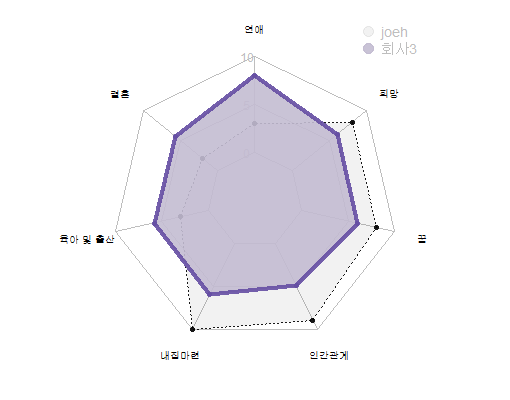
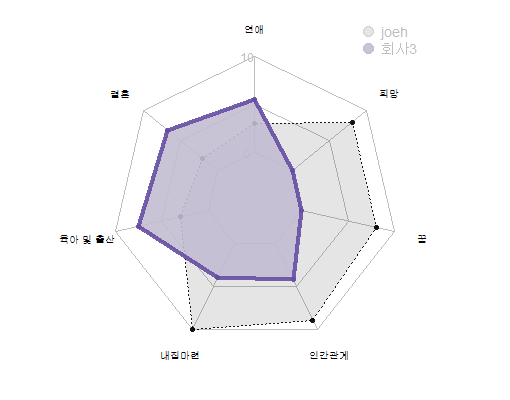
commit

Changed region(s): [[0.3529, 0.18, 0.7059, 0.75], [0.2647, 0.3, 0.3824, 0.63]]

diff --git a/sevenget/src/main/java/com/sevenget/Rcode/Evaluation2.java b/sevenget/src/main/java/com/sevenget/Rcode/Evaluation2.java
@@ -4,6 +4,7 @@ import model.company.CompanyBasicDAO;
 import model.company.CompanyBasicDTO;
 import model.companySco.CompanyRawScoDaoImpl;
 import model.companySco.CompanyRawScoDto;
+import model.companySco.CompanyScoDao;
 import model.companySco.CompanyScoDaoImpl;
 import model.companySco.CompanyScoDto;
 
@@ -21,13 +22,25 @@ public class Evaluation2 {
 	// 불러온 점수를 4점 미만, 4이상 7미만, 7이상으로 범주화 (F,N,T) 하는 메서드-insert or update
 	// 범주화된 점수는 companyBasicInfo 테이블에 입력!
 	public CompanyBasicDTO Categorization(int cid) {
+		CompanyScoDaoImpl CSDao = new CompanyScoDaoImpl();
 		CompanyScoDto CSDto = new CompanyScoDto();
 		Evaluation2 eval2 = new Evaluation2();
+		Evaluation eval = new Evaluation();
 		CompanyBasicDTO CBDto = new CompanyBasicDTO();
-
+		
+		CSDto = eval.FinalSco(cid, "joeh");
+		
 		//CSDto = eval2.selectComSco(cid);
 		CSDto.setCid(cid);
-
+		
+		System.out.println("지금 여기는 Evaluation2");
+		System.out.print(CSDto.getDateSco());
+		System.out.print(CSDto.getMarrySco());
+		System.out.print(CSDto.getBabySco());
+		System.out.print(CSDto.getHouseSco());
+		System.out.print(CSDto.getRelationSco());
+		System.out.print(CSDto.getDreamSco());
+		System.out.println(CSDto.getHopeSco());
 		// TF조건을 if로 걸어주고 나머지를 N으로 하는 걸로 바꿔주기!
 		if (CSDto.getDateSco() >= 7) {
 			CBDto.setDateGet("T");
@@ -107,9 +120,9 @@ public class Evaluation2 {
 		E2.Categorization(1);
 
 		//dto = pp.selectbyCid(1);
-		/*for(int i =1; i<26; i++){
+		for(int i =1; i<26; i++){
 			E2.Categorization(i);
-		}*/
+		}
 	}
 
 }

diff --git a/sevenget/src/main/java/model/companySco/CompanyRawScoDaoImpl.java b/sevenget/src/main/java/model/companySco/CompanyRawScoDaoImpl.java
@@ -87,19 +87,19 @@ public class CompanyRawScoDaoImpl implements CompanyScoDao {
 		dto.setCompKindergartenEPr(0);
 		dto.setEduSupportEPr(1);
 		dto.setLoanSupportEPr(1);
-		dto.setDormiHousingSupportEPr(1);
-		dto.setOpClubEPr(1);
-		dto.setSupportClubEPr(1);
-		dto.setClubMemRateEPr(80);
-		dto.setSelfDevSupportEPr(1);
+		dto.setDormiHousingSupportEPr(0);
+		dto.setOpClubEPr(0);
+		dto.setSupportClubEPr(0);
+		dto.setClubMemRateEPr(60);
+		dto.setSelfDevSupportEPr(0);
 		dto.setSeminarInvEPr(0);
-		dto.setHorizStrucEPr(1);
+		dto.setHorizStrucEPr(0);
 		dto.setVarWorkExpEPr(0);
-		dto.setTelAvailEPr(1);
+		dto.setTelAvailEPr(0);
 		dto.setSalIncreRateEPr(0);
-		dto.setRetireRateEPr(1);
+		dto.setRetireRateEPr(0);
 		dto.setBusiGrowthEPr(0);
-		dto.setInduGrowthEPr(1);
+		dto.setInduGrowthEPr(0);
 		dto.setGovSupportEPr(0);
 			
 		mybatis.update("CompanyRawScoDAO.updateRawScore", dto);
@@ -112,12 +112,12 @@ public class CompanyRawScoDaoImpl implements CompanyScoDao {
 		CompanyRawScoDaoImpl pp = new CompanyRawScoDaoImpl();
 		CompanyScoDto dto = new CompanyScoDto();
 		try{
-				for(int i=2; i<20;i++){
+				for(int i=3; i<26;i++){
 				pp.selectbyCid(i);
 				pp.insertCompanyRawScore(i);
 				}
 			}catch (Exception e) {
-				for(int i=2; i<20;i++){
+				for(int i=3; i<26;i++){
 				pp.updateCompanyRawScore(i);
 				}
 			}

diff --git a/sevenget/src/main/java/model/company/CompanyBasicDAO.java b/sevenget/src/main/java/model/company/CompanyBasicDAO.java
@@ -34,7 +34,6 @@ public class CompanyBasicDAO {
 		Evaluation2 eval2 = new Evaluation2();
 		CompanyScoDto CSDto = new CompanyScoDto();
 		CompanyBasicDTO CBDto = new CompanyBasicDTO();
-		CSDto = eval2.selectComSco(cid);
 		/*CSDto.getDateSco();
 		CSDto.getMarrySco();
 		CSDto.getBabySco();
@@ -46,7 +45,7 @@ public class CompanyBasicDAO {
 		
 		CBDto = (CompanyBasicDTO) CBDao.selectCompany(cid).get(0);
 		
-		System.out.println("wawawa"+CBDto.getCid());
+		System.out.println(eval2.Categorization(cid).getDateGet());
 		CBDto.setDateGet(eval2.Categorization(cid).getDateGet());
 		CBDto.setMarryGet(eval2.Categorization(cid).getMarryGet());
 		CBDto.setBabyGet(eval2.Categorization(cid).getBabyGet());
@@ -66,7 +65,7 @@ public class CompanyBasicDAO {
 		}
 			
 		//이건 잘 작동함.
-		List<CompanyBasicDTO> list = dao.selectAllCompanyBasic();
+		/*List<CompanyBasicDTO> list = dao.selectAllCompanyBasic();
 			try{
 				for(int i = 0; i<25; i++){
 					System.out.println(list.get(i).getCid());
@@ -80,6 +79,6 @@ public class CompanyBasicDAO {
 				}
 			}catch (Exception e) {
 				// TODO: handle exception
-			}
+			}*/
 	}
 }

diff --git a/sevenget/src/main/java/com/sevenget/Rcode/MakingPlot.java b/sevenget/src/main/java/com/sevenget/Rcode/MakingPlot.java
@@ -40,7 +40,7 @@ public class MakingPlot {
 		
 		// plot 그래픽 설정 및 파일 저장
 		connection.eval("colors_border=c(rgb(0/255, 0/255, 0/255,0.9), rgb(101/255, 78/255, 163/255,0.9))");
-		connection.eval("colors_in=c( rgb(0/255, 0/255, 0/255,0.05), rgb(195/255, 188/255, 210/255,0.9))");
+		connection.eval("colors_in=c( rgb(0/255, 0/255, 0/255,0.1), rgb(195/255, 188/255, 210/255,0.9))");
 		connection.eval("setwd('C:/Users/user/git/finpjt/sevenget/src/main/webapp/resources/img/plots')"); // 저장 장소 설정
 		
 		System.out.println("=====================");

diff --git a/sevenget/src/main/java/com/sevenget/Rcode/Evaluation.java b/sevenget/src/main/java/com/sevenget/Rcode/Evaluation.java
@@ -266,5 +266,22 @@ public class Evaluation {
 		}
 
 	}
+	
+	public static void main(String args[]) {
+		Evaluation pp = new Evaluation();
+		CompanyScoDto dto = new CompanyScoDto();
+		try{
+				for(int i=3; i<26;i++){
+				}
+			}catch (Exception e) {
+				for(int i=3; i<26;i++){
+					pp.FinalSco(i, "joeh");
+				}
+			}
+		/*pp.selectCompanyRawScores();
+		for(int i=1; i<26;i++){
+			pp.selectbyCid(7);
+		}*/
+	}
 
 }
